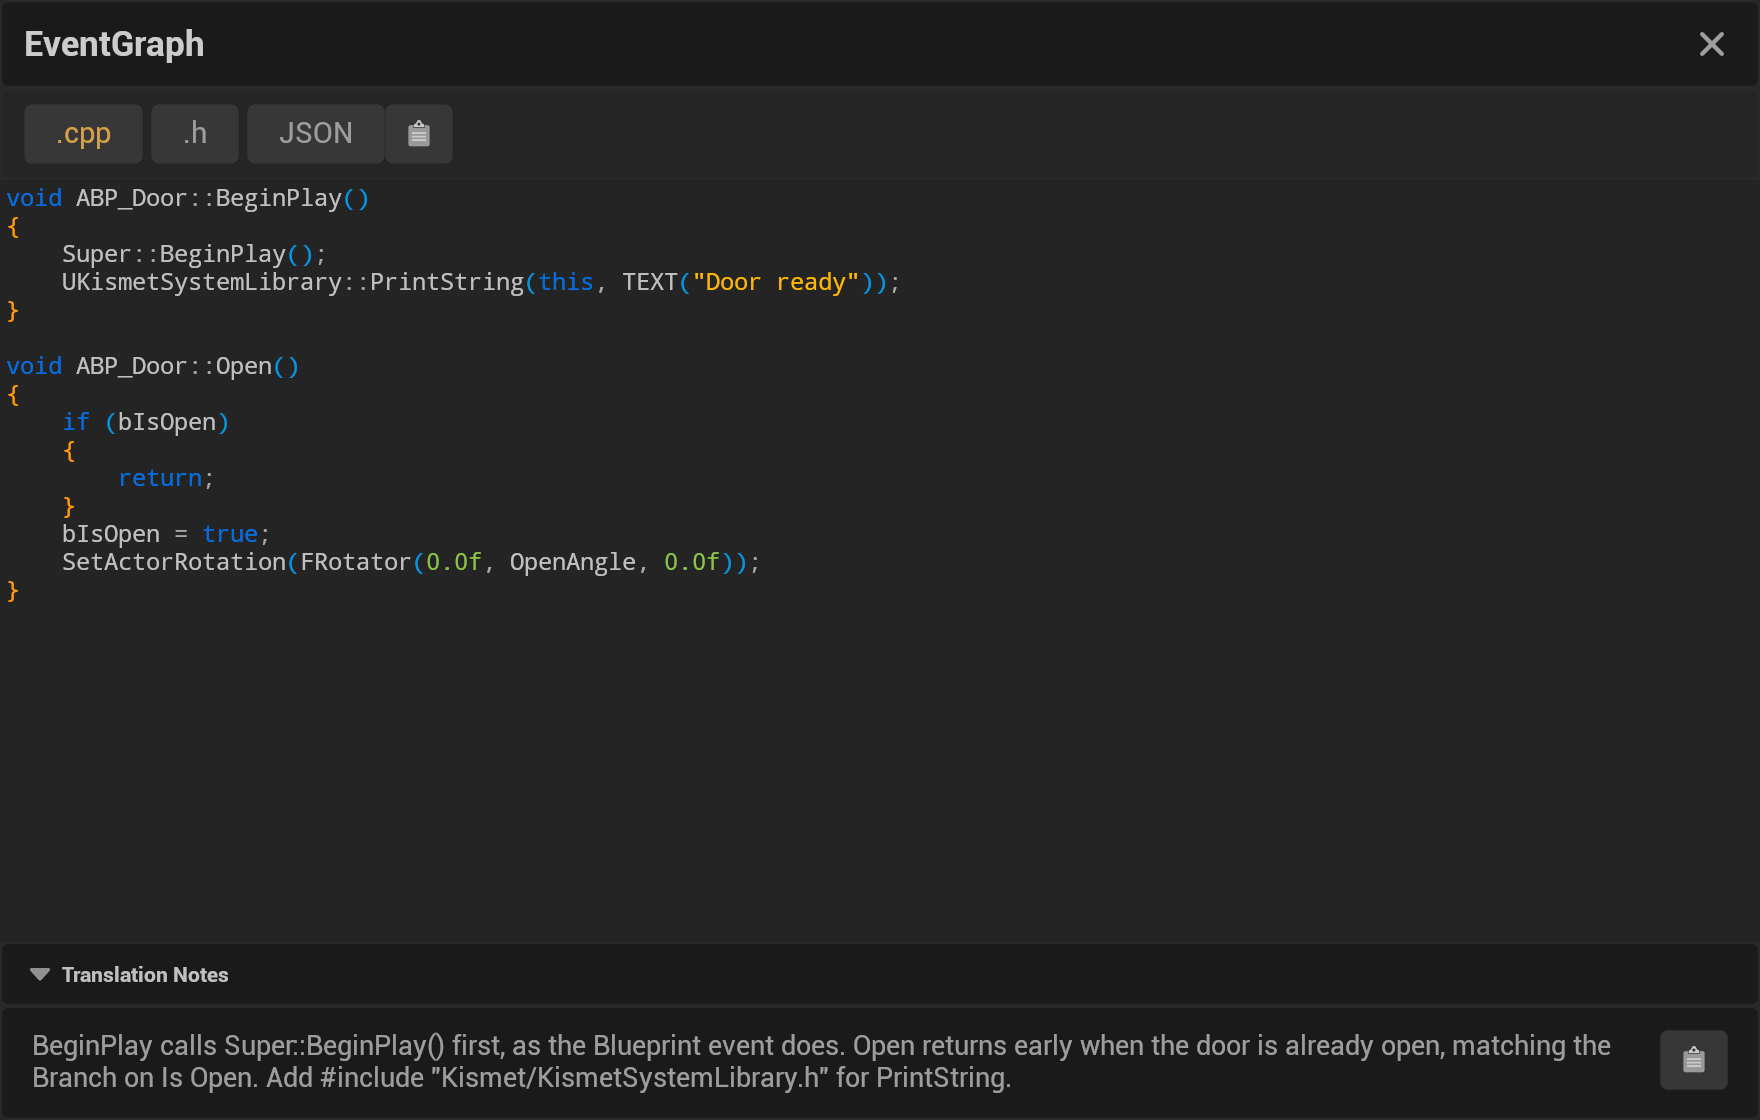
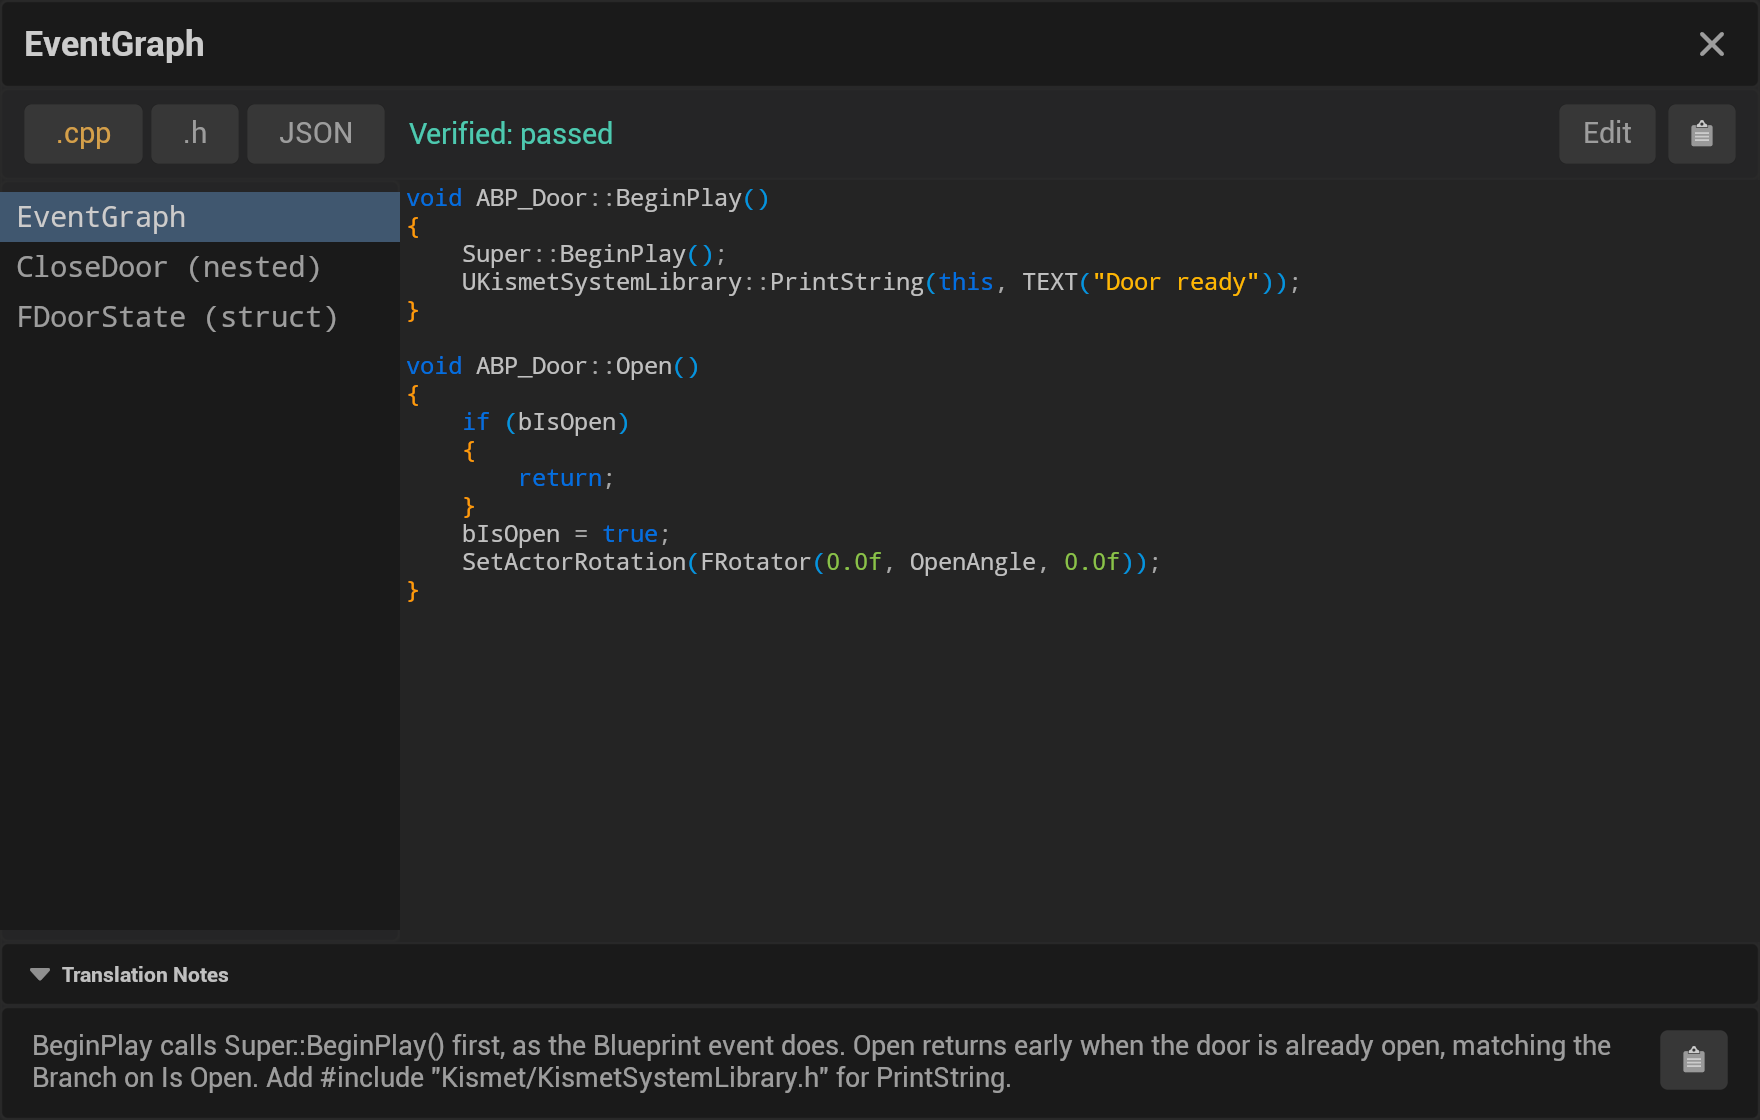
docs(shots): the viewer shot shows #351's graph list, Edit and the verify status (card 0542)
After #351 (card 0257) the translation viewer lists every graph of a translation and has an Edit toggle, and since
#348 it shows the verify status; Viewing-the-Results.md describes all three, but the main-window/translation-viewer
shot loaded one graph with no outcome, so none of them was in the picture.

N2CDocsShots.cpp: the viewer shot loads a three-graph response (EventGraph, CloseDoor nested, FDoorState struct) with
LoadResponse and a passed verify outcome. All groups retaken at this commit (main-window --repeat-check: no picture
differs). Alt text in Viewing-the-Results and Top-Navbar-Overview names the graph list, the Edit button and the status.

Docs: wiki/Viewing-the-Results.md, wiki/Top-Navbar-Overview.md, wiki/images/main-window

diff --git a/Source/Private/Tests/Docs/N2CDocsShots.cpp b/Source/Private/Tests/Docs/N2CDocsShots.cpp
@@ -252,7 +252,31 @@ bool FN2CDocsShotsMainWindow::RunTest(const FString& Parameters)
 	N2CDocsShots::Shoot(*this, N2CDocsShots::OnPanel(Manager), FVector2D(880.0, 460.0), Folder, TEXT("main-window/tag-manager"));
 
 	const TSharedRef<SN2CTranslationViewer> Viewer = SNew(SN2CTranslationViewer);
-	Viewer->LoadTranslation(N2CDocsShots::SampleTranslation(), TEXT("EventGraph"), FString(), EN2CCodeLanguage::Cpp);
+	// A translation at depth 1 (card 0257): the graph list shows the root, a function it calls and a struct it uses;
+	// Verify and Refine passed (card 0313), so the status shows beside the tabs
+	{
+		FN2CTranslationResponse Response;
+		Response.Graphs.Add(N2CDocsShots::SampleTranslation());
+		FN2CGraphTranslation Close;
+		Close.GraphName = TEXT("CloseDoor");
+		Close.GraphType = TEXT("Function");
+		Close.GraphClass = TEXT("BP_Door");
+		Close.Code.GraphDeclaration = TEXT("void CloseDoor();\n");
+		Close.Code.GraphImplementation = TEXT("void ABP_Door::CloseDoor()\n{\n\tbIsOpen = false;\n\tSetActorRotation(FRotator::ZeroRotator);\n}\n");
+		Response.Graphs.Add(Close);
+		FN2CGraphTranslation State;
+		State.GraphName = TEXT("FDoorState");
+		State.GraphType = TEXT("Struct");
+		State.GraphClass = TEXT("BP_Door");
+		State.Code.GraphDeclaration = TEXT("USTRUCT(BlueprintType)\nstruct FDoorState\n{\n\tGENERATED_BODY()\n\n\tUPROPERTY(EditAnywhere)\n\tbool bLocked = false;\n};\n");
+		Response.Graphs.Add(State);
+		Viewer->LoadResponse(Response, TEXT("EventGraph"), FString(), EN2CCodeLanguage::Cpp, 0);
+		FN2CVerifyOutcome Outcome;
+		Outcome.Status = EN2CVerifyStatus::Passed;
+		Outcome.MaxRefineTurns = 2;
+		Outcome.Language = EN2CCodeLanguage::Cpp;
+		Viewer->SetVerifyOutcome(&Outcome);
+	}
 	N2CDocsShots::Shoot(*this, N2CDocsShots::OnPanel(Viewer), FVector2D(880.0, 560.0), Folder, TEXT("main-window/translation-viewer"));
 
 	// A first run (card 0269): no tags yet (the tree's guidance, the selection buttons disabled) ...

diff --git a/wiki/Viewing-the-Results.md b/wiki/Viewing-the-Results.md
@@ -4,7 +4,7 @@ in [Window Overview](Top-Navbar-Overview).
 
 ## The translation viewer
 
-<img src="images/main-window/translation-viewer.png" alt="The translation viewer showing the .cpp tab of BP_Door's EventGraph and its Translation Notes" width="880">
+<img src="images/main-window/translation-viewer.png" alt="The translation viewer showing the .cpp tab of BP_Door's EventGraph, Verified: passed beside the tabs, the Edit button, the graph list with CloseDoor (nested) and FDoorState (struct), and the Translation Notes" width="880">
 
 - **The graph list**, on the left when the translation has more than one graph: the graph you translated first, then
   the functions and macros it calls ([Translation Depth](Max-Translation-Depth)) marked **(nested)**, and the structs

diff --git a/wiki/Top-Navbar-Overview.md b/wiki/Top-Navbar-Overview.md
@@ -44,7 +44,7 @@ Removing tags asks first and then offers **Undo** for ten seconds. More on tags:
 
 ## The translation viewer
 
-<img src="images/main-window/translation-viewer.png" alt="The translation viewer: graph name and close button, .cpp, .h and JSON tabs, the code, and the Translation Notes panel" width="880">
+<img src="images/main-window/translation-viewer.png" alt="The translation viewer: graph name and close button, .cpp, .h and JSON tabs with the verify status, the Edit and copy buttons, the graph list, the code, and the Translation Notes panel" width="880">
 
 1. **Title and close.** The name of the graph whose translation is open; the cross closes the viewer and returns to
    the Tag Manager.
